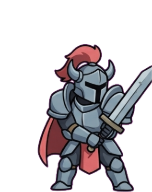
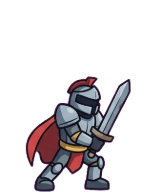
휘두르는 맛을 넣습니다 — 참조는 가늠자로, 힘은 애니메이션 원칙으로
참조를 그대로 베끼게 했더니 원본 관절 모션이 원래 얌전해서 휘두르는 맛이
안 났습니다. 웹에서 2D 공격 애니메이션 통설을 찾아 보니 원인이 분명했습니다 —
"예비동작을 늦추고 타격을 빠르게 하는 것이 컷을 더 넣는 것보다 낫다."

그래서 셋을 바꿨습니다.

1. 참조를 가늠자로만 씁니다
   순서 · 무기가 향하는 쪽 · 앞발 자리 · 바닥선만 가져가고, 힘은 다시 넣게
   지시합니다 — 예비동작(더 뒤로 감기), 극점(컷 사이 회전을 크게),
   스미어(가장 빠른 컷에 궤적), 팔로스루(균형점을 넘겨 흘리기), 무게(기울기).
   결과에 실제로 스미어 궤적이 생겼습니다.

2. 컷마다 시간을 다르게 줍니다 (shot-motion.js)
   여덟 컷을 40ms 씩 균등하게 돌리던 것을 무게로 나눴습니다 —
   예비동작 느리게, 타격 두 컷은 아주 빠르게, 팔로스루는 길게 붙듭니다.

3. 격자선만 골라 지웁니다
   칸 테두리를 2% 통째로 지웠더니 그 띠에 걸친 칼끝까지 잘려 나갔습니다.
   이제 경계 자리를 훑어 "거의 다 차 있는 줄"일 때만 그 줄 ±2px 을 지웁니다.
   칼은 한 줄을 다 채우지 못하므로 안 걸립니다.

무기 종류마다 참조 시트를 따로 찍었습니다 — sword · spear · dagger · bow ·
crossbow 다섯. 창은 찌르고 석궁은 반동으로 밀리는 등 동작이 다릅니다.

고친 것: 지시문이 길어지자 배경 규칙이 묻혀서 흰 칸 위에 그려 왔습니다.
참조의 배경을 따르라고 묶고, 프롬프트 맨 끝에 한 번 더 못박았습니다.

Claude-Session: https://claude.ai/code/session_01M5pTenpaLjjehZFnDFMiCo

diff --git a/gen-sheet.js b/gen-sheet.js
@@ -105,6 +105,10 @@ function promptFor(job, weapon) {
     'CRITICAL: it is the exact same character and the exact same weapon in all frames — identical '
       + 'armour, identical colours, identical proportions, identical size. Only the pose changes.',
     GRID, STYLE, BG,
+    // 배경 규칙을 맨 끝에 한 번 더 둡니다. 지시문이 길어지면 앞쪽이 묻혀서
+    // 흰 칸 위에 그려 오는 일이 생깁니다.
+    'FINAL REMINDER: the entire background, in every cell and between all cells, is flat pure '
+      + 'magenta #FF00FF. Not white. Not grey. Not a card or a panel. Magenta.',
   ].join('\n\n');
 }
 
@@ -130,19 +134,35 @@ function refFor(job, weapon) {
   return fs.existsSync(f) ? fs.readFileSync(f).toString('base64') : null;
 }
 
+// 참조는 **가늠자**입니다. 그대로 베끼게 했더니 원본 모션이 원래 얌전해서
+// 휘두르는 맛이 안 났습니다. 그래서 "순서·방향·발 자리"만 가져가고, 힘은
+// 애니메이션 원칙으로 다시 넣게 합니다 — 예비동작 · 스미어 · 팔로스루.
 const REF_RULE = [
-  'The attached image is a POSE REFERENCE sheet: the same 8 frames of this exact attack animation,',
-  'laid out in the same grid, drawn as rough placeholder art.',
-  'Redraw every frame in your own polished style, but KEEP THE POSE OF EACH FRAME EXACTLY as it is',
-  'in the reference — the same body angle, the same lean, the same arm and weapon angle, the same',
-  'foot placement, the same frame order. Frame N of your sheet must match frame N of the reference.',
-  'The feet stay planted where the reference puts them; do not slide the character around.',
-  'Keep the same overall size and the same ground line in every cell as the reference.',
-  'Only the art quality changes — the motion must not.',
-  'IMPORTANT: in the reference the weapon is sometimes CLIPPED where it runs past the edge of its',
-  'cell. Do not copy that clipping — work out where the blade was going and draw the weapon WHOLE,',
-  'complete from hilt to tip, at the same angle. Shrink the figure a little if that is what it takes',
-  'to fit the whole weapon inside the cell with a margin.',
+  'The attached image is a rough POSE GUIDE: the same 8 frames of this attack, in the same grid,',
+  'drawn as crude placeholder art. Use it ONLY to know, for each frame: where in the swing we are,',
+  'which way the weapon points, which foot is forward, and how the frames run in order.',
+  'Do NOT copy it literally — that guide is stiff and weak, and copying it makes a limp animation.',
+  '',
+  'Redraw the whole cycle as a real, powerful attack using proper animation principles:',
+  '· ANTICIPATION — the early frames wind up FURTHER back than the guide does, weight shifting onto',
+  '  the back foot, shoulders and hips coiled away from the target.',
+  '· EXTREMES — push the strongest frames well past the guide. Big rotation of the weapon between',
+  '  consecutive frames is good; a swing should cover a lot of arc in very few frames.',
+  '· SMEAR — on the fastest frame (the impact), stretch and blur the weapon into a curved arc trail',
+  '  so the eye reads speed. One smear frame is enough.',
+  '· FOLLOW THROUGH — after impact the weapon overshoots low and the body is committed forward,',
+  '  clearly past the point of balance, before recovering.',
+  '· WEIGHT — the body leans and drops through the strike; do not keep it upright and static.',
+  '',
+  'Keep from the guide: the frame order, the general direction of travel, and the feet staying',
+  'planted on the same ground line (the character must not drift across the cell).',
+  'Every frame must be the same character at the same scale on the same ground line.',
+  '',
+  'Draw the weapon WHOLE in every frame — complete from hilt to tip, never running off the edge of',
+  'its cell and never cut short. If a long weapon will not fit, draw the character slightly smaller.',
+  '',
+  'KEEP THE BACKGROUND OF THE REFERENCE: the guide sits on flat pure magenta #FF00FF and yours must',
+  'too. Do not put the frames on white, on a light box, on cards or on panels of any kind.',
 ].join(' ');
 
 async function generate(job, weapon) {
@@ -194,21 +214,43 @@ async function slice(oven, png, job) {
     }
     x.putImageData(d, 0, 0);
 
-    // 1.5 칸 테두리를 얇게 지웁니다.
+    // 1.5 격자선만 골라 지웁니다.
     // 모델에게 "격자선을 그리지 마라"고 해도 **검은 칸 선을 그려 옵니다.**
-    // 그 선은 마젠타가 아니라 배경 제거를 통과하고, 칸 네 변에 붙어 있어서
-    // 경계를 재면 늘 칸 끝까지 벌어집니다. 여백을 넉넉히 요구해 두었으니
-    // 이 띠를 지워도 그림은 안 다칩니다.
+    // 그 선은 마젠타가 아니라 배경 제거를 통과합니다.
+    //
+    // 처음엔 칸 테두리를 2% 통째로 지웠는데, 그러면 **그 띠에 걸친 칼끝까지
+    // 같이 잘려 나갑니다.** 그래서 지금은 경계선 자리를 훑어보고 "거의 다 차
+    // 있는 줄"일 때만 그 줄 ±2px 을 지웁니다. 칼은 한 줄을 다 채우지 못하므로
+    // 안 걸립니다.
     const cw0 = c.width / a.cols, ch0 = c.height / a.rows;
-    const inset = Math.max(4, Math.round(Math.min(cw0, ch0) * 0.02));
-    for (let r = 0; r < a.rows; r++) for (let q = 0; q < a.cols; q++) {
-      const sx = Math.round(q * cw0), sy = Math.round(r * ch0);
-      const ex = Math.round((q + 1) * cw0), ey = Math.round((r + 1) * ch0);
-      for (let Y = sy; Y < ey; Y++) for (let X = sx; X < ex; X++) {
-        if (X < sx + inset || X >= ex - inset || Y < sy + inset || Y >= ey - inset) {
-          p[(Y * c.width + X) * 4 + 3] = 0;
-        }
+    const wipeCol = (X) => {
+      let filled = 0;
+      for (let Y = 0; Y < c.height; Y++) if (p[(Y * c.width + X) * 4 + 3] > 24) filled++;
+      if (filled < c.height * 0.7) return false;
+      for (let dx = -2; dx <= 2; dx++) {
+        const nx = X + dx; if (nx < 0 || nx >= c.width) continue;
+        for (let Y = 0; Y < c.height; Y++) p[(Y * c.width + nx) * 4 + 3] = 0;
       }
+      return true;
+    };
+    const wipeRow = (Y) => {
+      let filled = 0;
+      for (let X = 0; X < c.width; X++) if (p[(Y * c.width + X) * 4 + 3] > 24) filled++;
+      if (filled < c.width * 0.7) return false;
+      for (let dy = -2; dy <= 2; dy++) {
+        const ny = Y + dy; if (ny < 0 || ny >= c.height) continue;
+        for (let X = 0; X < c.width; X++) p[(ny * c.width + X) * 4 + 3] = 0;
+      }
+      return true;
+    };
+    let wiped = 0;
+    for (let q = 0; q <= a.cols; q++) {
+      const X = Math.min(c.width - 1, Math.max(0, Math.round(q * cw0)));
+      for (let o = -3; o <= 3; o++) if (wipeCol(Math.min(c.width - 1, Math.max(0, X + o)))) wiped++;
+    }
+    for (let r = 0; r <= a.rows; r++) {
+      const Y = Math.min(c.height - 1, Math.max(0, Math.round(r * ch0)));
+      for (let o = -3; o <= 3; o++) if (wipeRow(Math.min(c.height - 1, Math.max(0, Y + o)))) wiped++;
     }
     x.putImageData(d, 0, 0);
 

diff --git a/shot-motion.js b/shot-motion.js
@@ -5,6 +5,18 @@
 // 타이밍은 게임 그대로입니다 — js/motion.js 의 motionMs(rate) = min(rate*0.85, 320).
 // 여덟 컷을 그 시간에 나눠 돌리고, 다음 공격까지 남는 시간은 첫 컷으로 쉽니다.
 // 그 쉬는 마디가 있어야 "휘두르고 돌아온다"가 보입니다.
+//
+// ── 컷마다 시간이 다릅니다 ─────────────────────────────────
+// 여덟 컷을 40ms 씩 균등하게 돌렸더니 휘두르는 맛이 없었습니다. 애니메이션
+// 쪽 통설이 그 이유를 정확히 말해 줍니다 — **예비동작을 늦추고 타격을 빠르게
+// 하는 것이, 컷을 더 넣는 것보다 낫다.**
+//
+// 그래서 컷마다 무게를 다르게 줍니다.
+//   0~2 예비동작   느리게 (칼을 뒤로 당기는 동안 시간이 흘러야 힘이 쌓입니다)
+//   3~4 타격       아주 빠르게 (한 컷이 확 지나가야 빠르게 보입니다)
+//   5   팔로스루   길게 붙듭니다 (여기가 "맞았다"가 읽히는 자리입니다)
+//   6~7 회복       보통
+const WEIGHT = [1.7, 1.4, 1.0, 0.45, 0.45, 1.9, 1.1, 1.0];
 const fs=require('fs'), path=require('path'); const { chromium }=require('playwright');
 const ROOT=__dirname;
 const RATES={}; // classes.js 에서 읽습니다
@@ -57,14 +69,18 @@ const RATES={}; // classes.js 에서 읽습니다
        <img class=real id="r${n}" src="${c.frames[0]}">
      </div><div class=t>${c.label} · ${c.rate}ms 마다</div></div>`).join('')}</div>
    <script>
-   const CARDS=${JSON.stringify(cards.map(c=>({frames:c.frames,ms:c.ms,rate:c.rate})))};
+   const CARDS=${JSON.stringify(cards.map(c=>({frames:c.frames,ms:c.ms,rate:c.rate,weight:WEIGHT})))};
    CARDS.forEach((c,n)=>{
      const big=document.getElementById('b'+n), real=document.getElementById('r'+n);
-     const per=c.ms/8;
+     // 컷마다 시간이 다릅니다. 무게를 합이 1 이 되게 고쳐 누적 경계를 만듭니다.
+     const W=c.weight, sum=W.reduce((a,b)=>a+b,0);
+     const edge=[]; let acc=0;
+     W.forEach(w=>{acc+=w/sum*c.ms; edge.push(acc);});
      let t0=performance.now();
      function tick(now){
        const e=(now-t0)%c.rate;
-       const i=e<c.ms?Math.min(7,Math.floor(e/per)):0;   // 남는 시간은 첫 컷으로 쉽니다
+       let i=0;
+       if(e<c.ms){ while(i<7&&e>edge[i]) i++; } else i=0;  // 남는 시간은 첫 컷으로 쉽니다
        big.src=c.frames[i]; real.src=c.frames[i];
        requestAnimationFrame(tick);
      }
